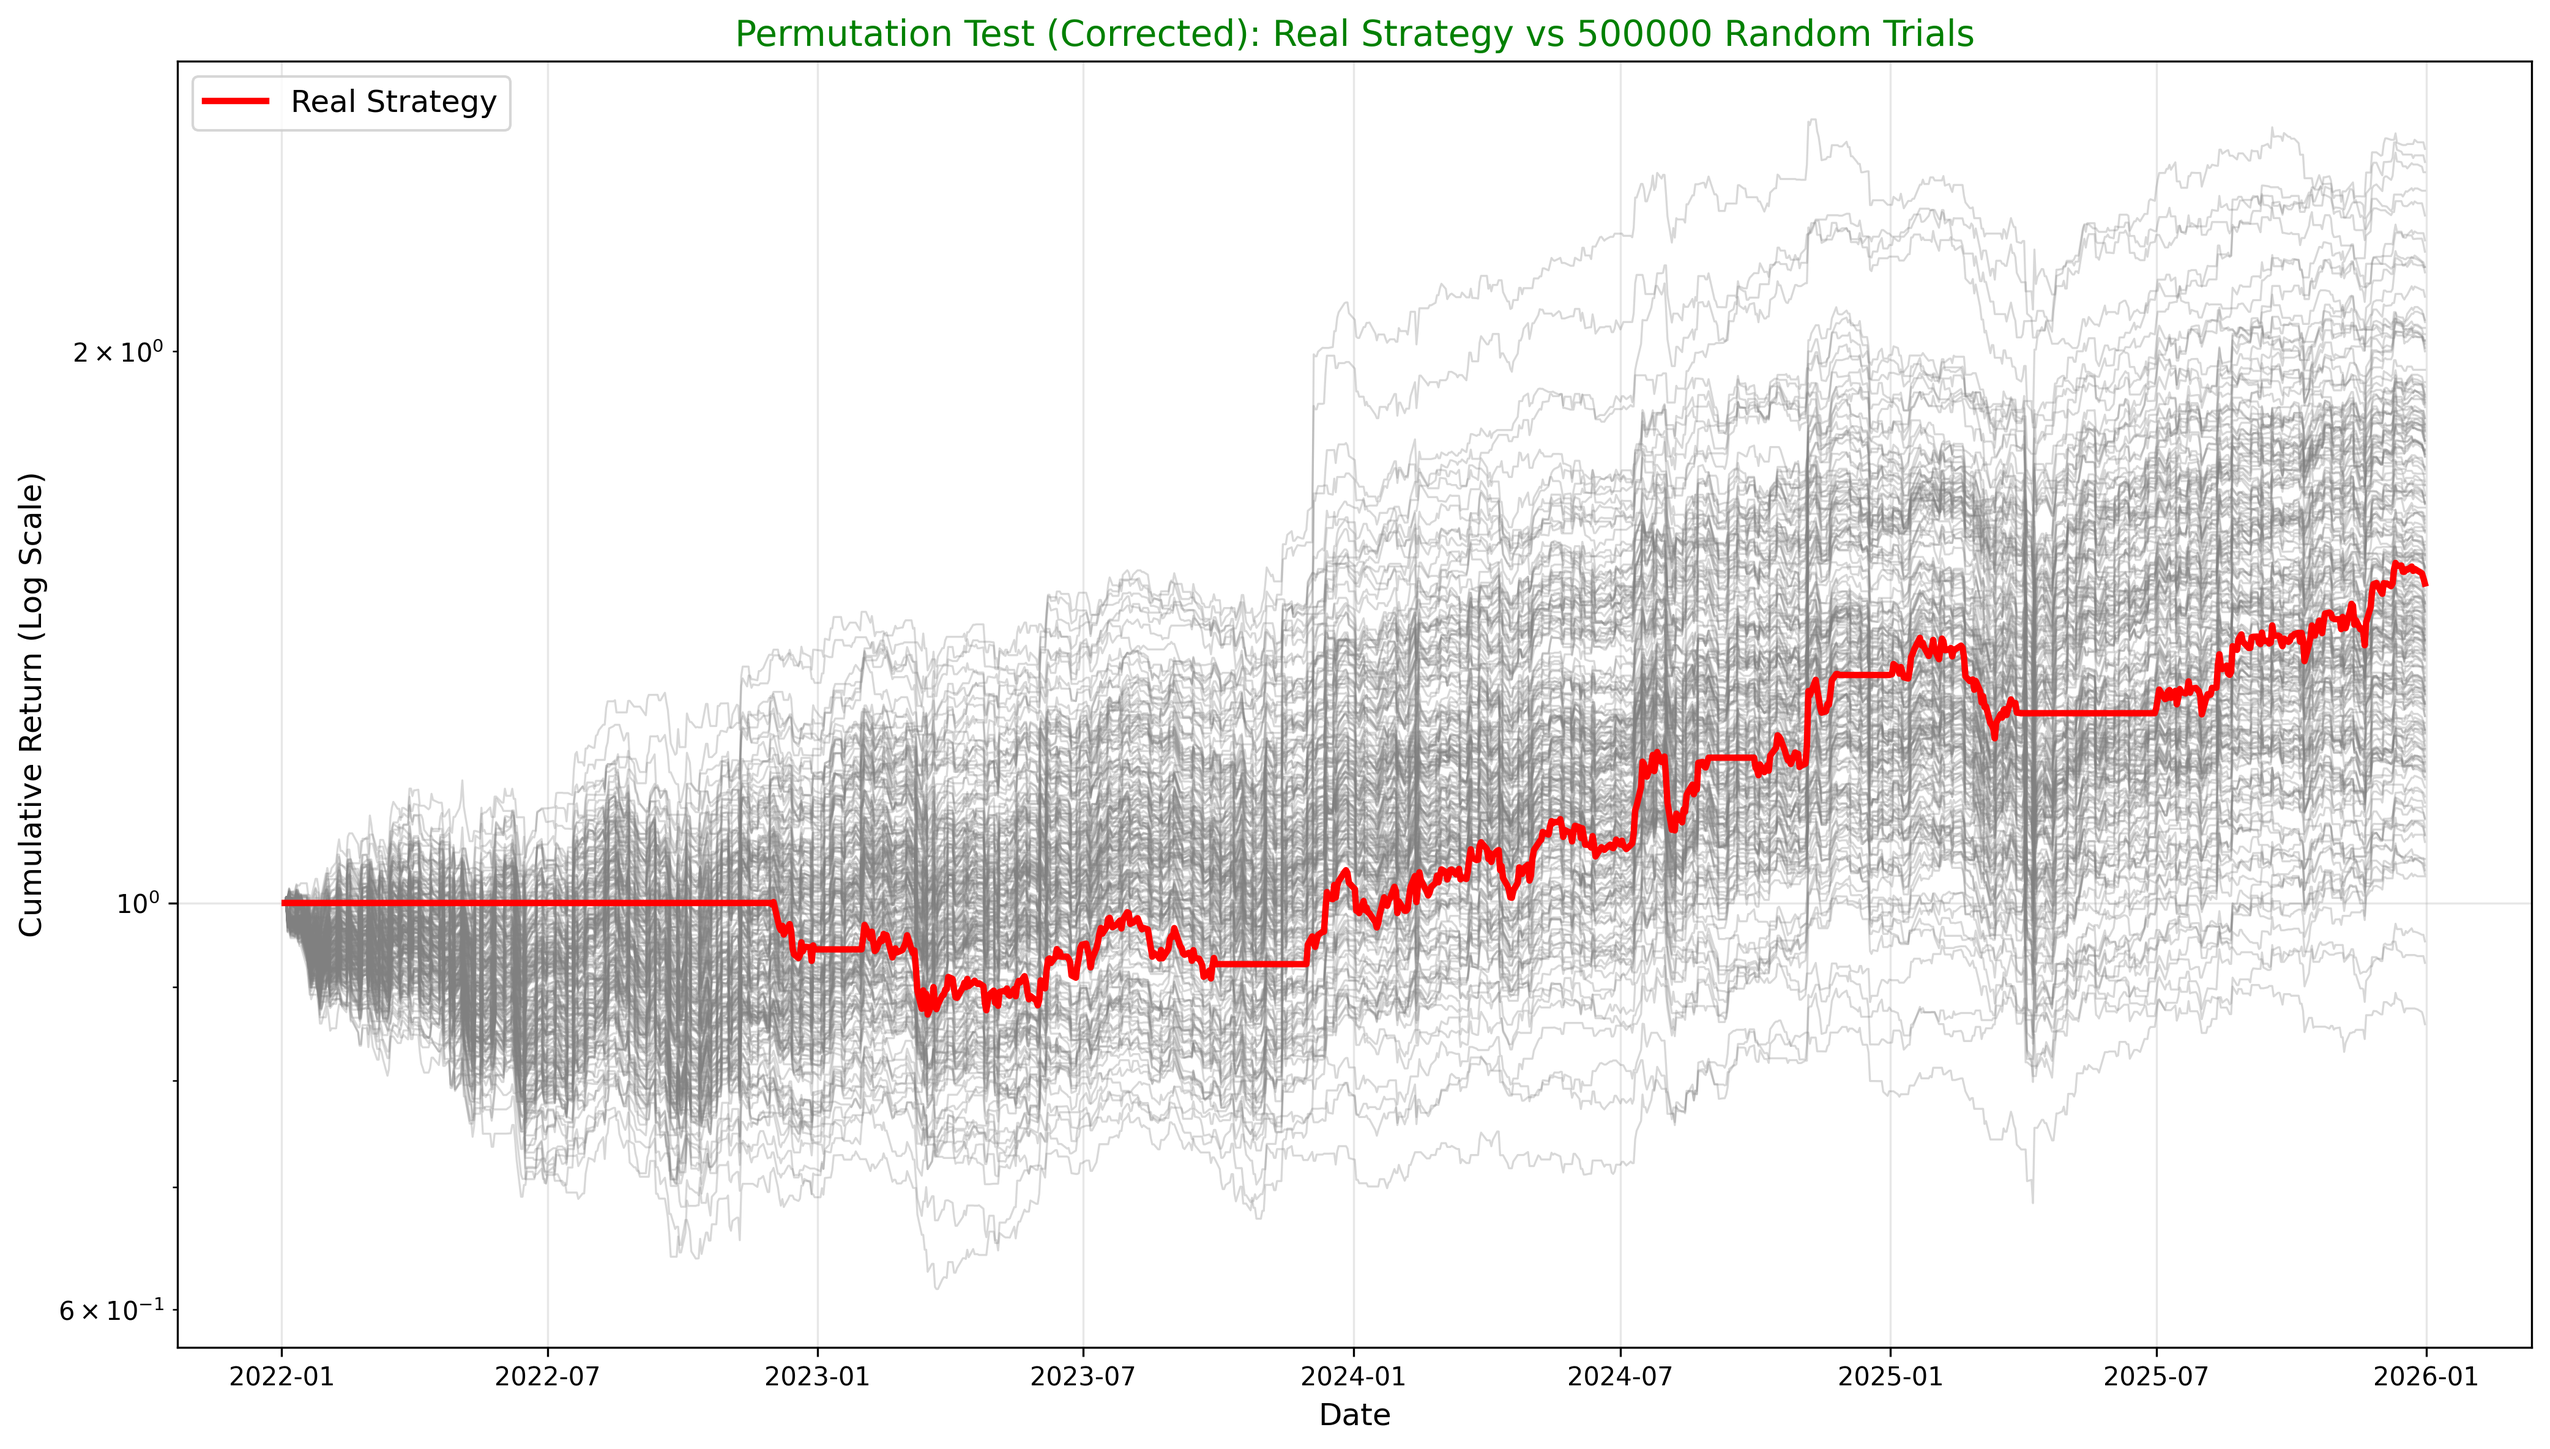
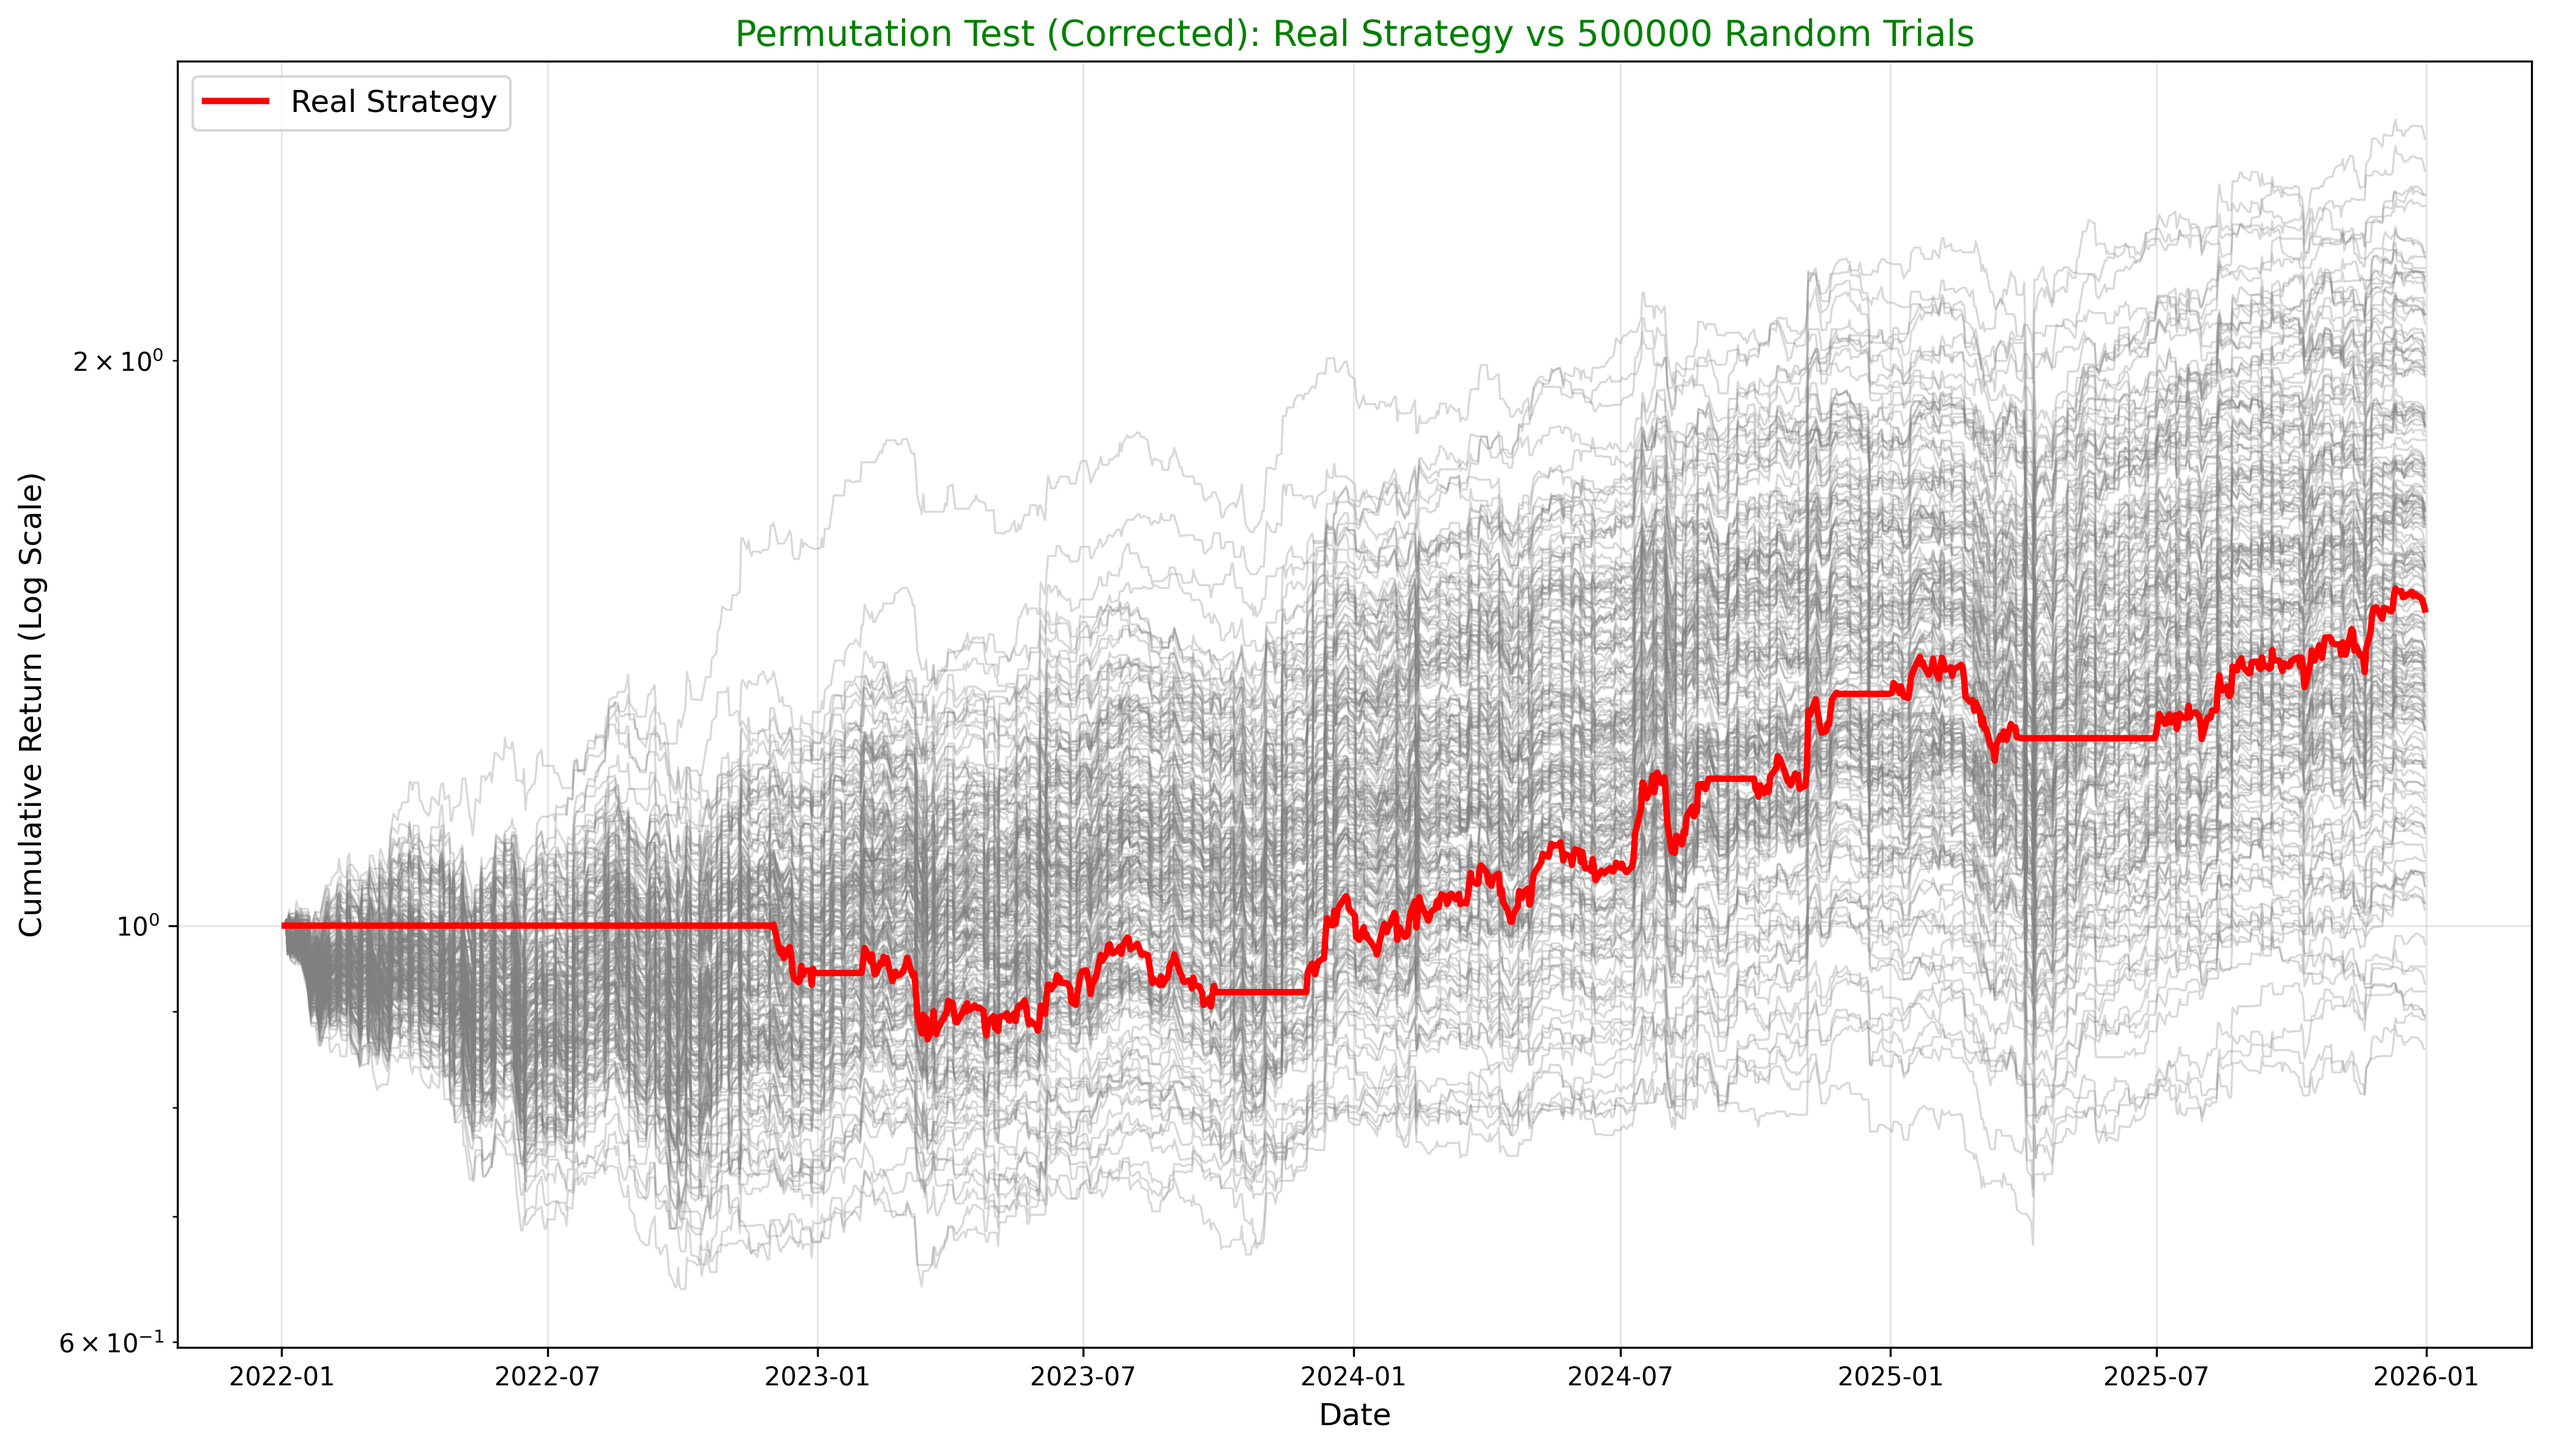
Fixed minor pylance checker issues, removed unnecessary footnote in html tearsheet file. May change filetype to pdf instead of html.

diff --git a/qfin/tearsheet.py b/qfin/tearsheet.py
@@ -100,7 +100,7 @@ def chart_monthly_heatmap(pnl):
 
     labels = ['Jan', 'Feb', 'Mar', 'Apr', 'May', 'Jun', 'Jul', 'Aug', 'Sep', 'Oct', 'Nov', 'Dec']
     ax.set_xticks(range(len(grid.columns)))
-    ax.set_xticklabels([labels[c - 1] for c in grid.columns], fontsize=8.5)
+    ax.set_xticklabels([labels[int(c) - 1] for c in grid.columns], fontsize=8.5) #int() as the column labels come back typed as Hashable
     ax.set_yticks(range(len(grid.index)))
     ax.set_yticklabels([str(y) for y in grid.index], fontsize=8.5)
     ax.tick_params(colors=MUTED, length=0)
@@ -125,7 +125,7 @@ def chart_distribution(pnl):
     var = M.value_at_risk(r)
     cvar = M.conditional_var(r)
     fig, ax = new_fig(width=5.0, height=2.9)
-    ax.hist(r.to_numpy() * 100.0, bins=60, color=BENCH, alpha=0.75, linewidth=0)
+    ax.hist(np.asarray(r, dtype=float) * 100.0, bins=60, color=BENCH, alpha=0.75, linewidth=0)
     ax.axvline(var * 100.0, color=ACCENT, linewidth=1.4, linestyle='--', label=f'VaR 95: {var:.2%}')
     ax.axvline(cvar * 100.0, color=NEGATIVE, linewidth=1.4, linestyle=':', label=f'CVaR 95: {cvar:.2%}')
     ax.set_xlabel('Daily return (%)', color=MUTED, fontsize=9)
@@ -148,7 +148,7 @@ def chart_exposure(weights):
     for side in ('top', 'right', 'left'):
         twin.spines[side].set_visible(False)
     lines = ax.get_lines() + twin.get_lines()
-    ax.legend(lines, [l.get_label() for l in lines], frameon=False, fontsize=8, loc='upper left')
+    ax.legend(lines, [str(l.get_label()) for l in lines], frameon=False, fontsize=8, loc='upper left') #get_label is typed as object
     date_axis(ax, max_ticks=4)
     return encode(fig)
 
@@ -349,9 +349,6 @@ def build_tearsheet(pnl, weights=None, benchmark=None, costs=None, title='Strate
   {bench_block}
   {perm_block}
   {notes_block}
-  <footer>Generated by qfin-lab. Past performance of a backtest is not evidence
-  of future returns; results are gross of financing, taxes and borrow costs
-  unless stated otherwise.</footer>
 </div></body></html>"""
 
     directory = os.path.dirname(os.path.abspath(out_path))

diff --git a/qfin/metrics.py b/qfin/metrics.py
@@ -3,7 +3,7 @@ import pandas as pd
 
 trading_days = 252
 
-def to_series(x):
+def to_series(x) -> pd.Series:
     #coerce whatever gets passed in into a float series, squeezing single column frames
     if isinstance(x, pd.Series):
         return x.astype(float)
@@ -138,7 +138,11 @@ def monthly_returns(pnl):
     if len(r) == 0 or not isinstance(r.index, pd.DatetimeIndex):
         return pd.DataFrame()
     monthly = r.resample('ME').apply(lambda x: float((1.0 + x).prod() - 1.0))
-    grid = pd.DataFrame({'year': monthly.index.year, 'month': monthly.index.month, 'ret': monthly.to_numpy()})
+    idx = pd.DatetimeIndex(monthly.index) #resample always gives a datetime index, this just tells the checker
+    #pulling .year/.month off each timestamp rather than the vectorised idx.year, which pandas
+    #builds dynamically so pylance can't see it. the index is one entry per month, so this is cheap
+    grid = pd.DataFrame({'year': [d.year for d in idx], 'month': [d.month for d in idx],
+                         'ret': np.asarray(monthly, dtype=float)})
     return grid.pivot(index='year', columns='month', values='ret').sort_index()
 
 def align(pnl, benchmark):
@@ -182,7 +186,7 @@ def capture_ratios(pnl, benchmark, period: str = 'ME'):
         return 0.0, 0.0
     if period and isinstance(joined.index, pd.DatetimeIndex):
         joined = joined.resample(period).agg(lambda x: float((1.0 + x).prod() - 1.0))
-    r, b = joined['r'].to_numpy(), joined['b'].to_numpy()
+    r, b = np.asarray(joined['r'], dtype=float), np.asarray(joined['b'], dtype=float)
 
     def capture(mask):
         if mask.sum() == 0:
